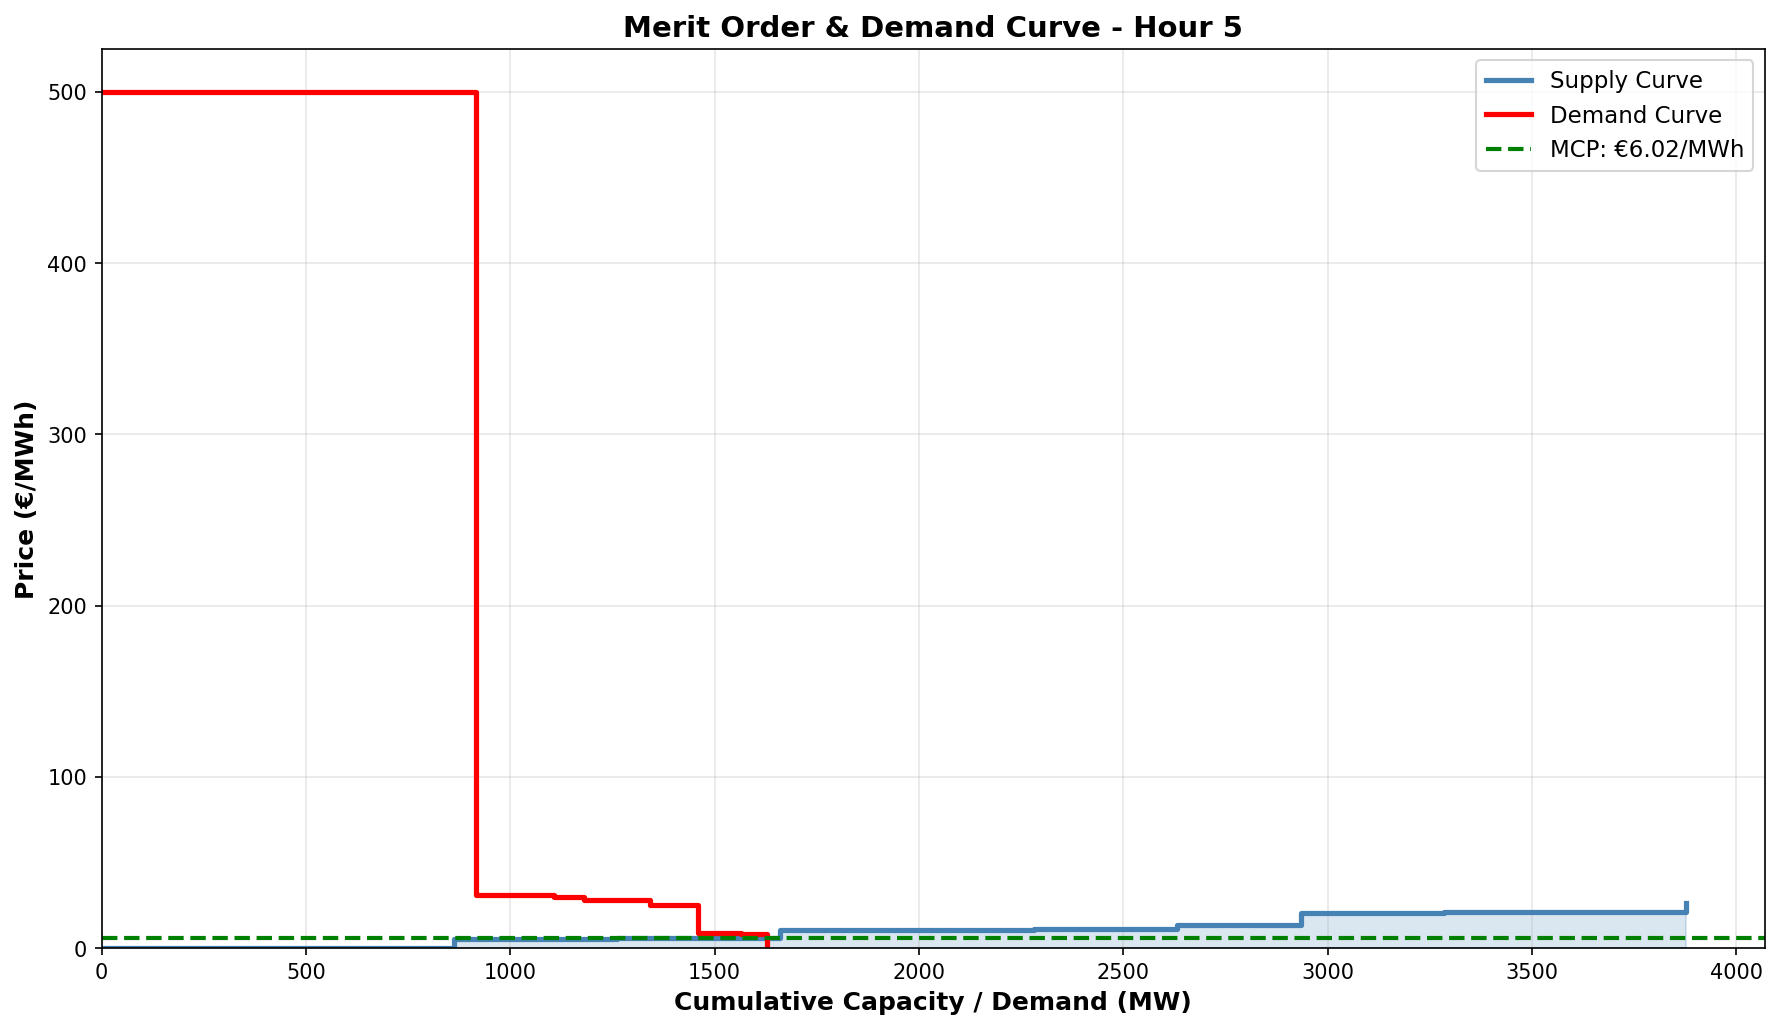
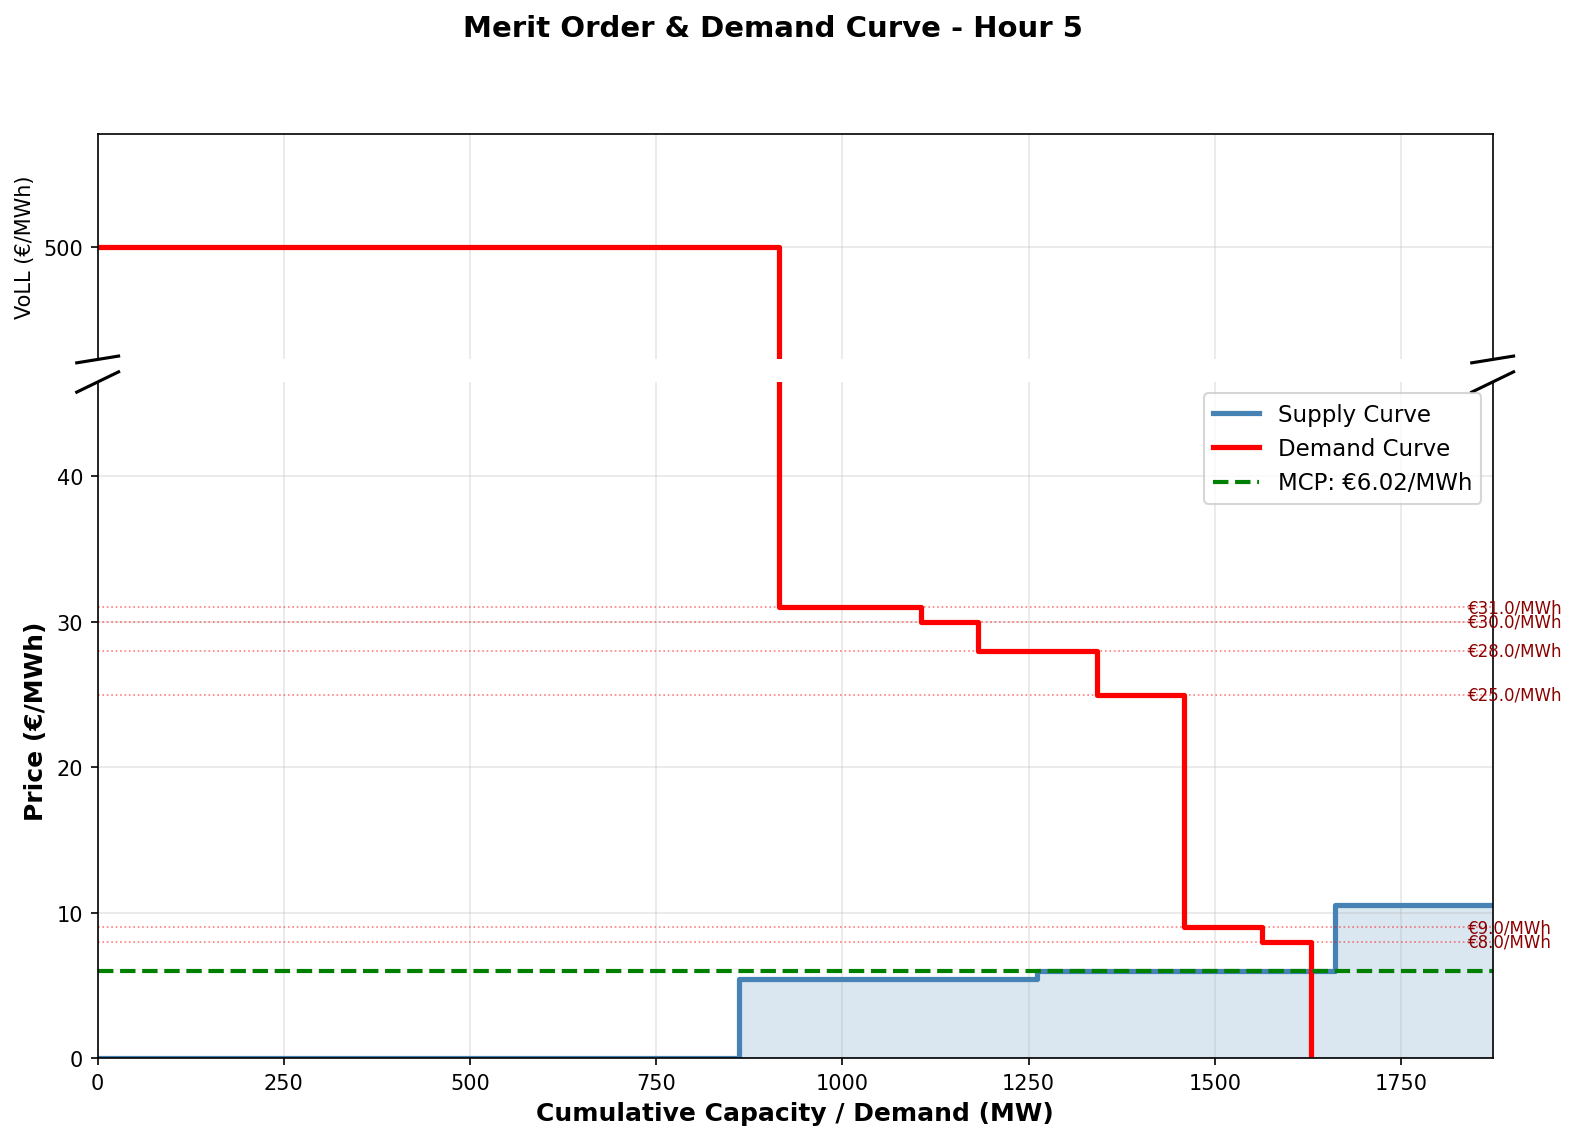
plot for the merit order curve in step 1 changed to improve the visualization. implemented a way to save the plots

diff --git a/Assignment_step1.py b/Assignment_step1.py
@@ -121,7 +121,7 @@ conventional_generators = pd.read_csv('GeneratorsData.csv', header=None, names=[
 
 # Creating the wind capacity matrix for 6 wind generators and 24 hours
 wind_capacity= np.zeros((6, 24)) # placeholder for wind generator data, to be filled with actual data from CSV files for hourly optimization
-file_list = glob.glob(r'Ninja\*.csv')
+file_list = sorted(Path(__file__).parent.glob('Ninja/*.csv'))
 for i,csv in enumerate(file_list):
   data = pd.read_csv(csv, header = None,names = ['time','local_time','capacity_factor'], skiprows = 4)
   index = data.loc[data['time'] == date + ' 00:00'].index[0] # Find the index of the row corresponding to the specified date starting at 00:00
@@ -283,7 +283,8 @@ for t in range(time_step):  # Loop over time steps (hours)
     elastic_curtailment_from_max = (1 - elastic_served / elastic_max_possible) * 100 if elastic_max_possible > 0 else 0
     if t == 4:  # Store detailed results for the hour selected for merit order curve analysis
         model_selected = model
-        generators_selected = total_generators.copy()
+        generators_selected = total_generators.copy() 
+        demand_data_selected = demand_data.copy()
         producer_profits = {}
         utility_by_load = {}
 
@@ -343,7 +344,7 @@ for g in GENERATORS:
 # Demand
 print("\nStationary Demand:")
 for j in LOADS:
-    bid = demand_data['bid_price'][j]
+    bid = demand_data_selected['bid_price'][j]
     nu_min = model_selected.results.optimal_duals[f'demand min limit {j}']
     nu_max = model_selected.results.optimal_duals[f'demand max limit {j}']
     print(f"Load {j+1}: bid={bid:.2f}, λ={lam:.4f}, ν_min={nu_min:.4f}, ν_max={nu_max:.4f}, "
@@ -416,75 +417,110 @@ plt.savefig(plots_dir / '24h_market_results.png', dpi=150, bbox_inches='tight')
 plt.show()
 
 # ============================================================================
-# MERIT ORDER CURVE + DEMAND CURVE (chosen hour)
+# MERIT ORDER CURVE + DEMAND CURVE (chosen hour) - Split Y-axis plot
 # ============================================================================
 
-# Supply curve
+# --- Supply curve data ---
 moc_total_demand = loads['demand'][hour]
 wind_generator['capacity'] = wind_capacity[:, hour]
 moc_generators = pd.concat([conventional_generators, wind_generator], ignore_index=True)
 moc_generators_sorted = moc_generators.copy().sort_values(by=["cost"])
 
+# Build cumulative supply curve (step function)
 supply_cumulative = []
 supply_cost = []
 for i in range(len(moc_generators_sorted)):
     supply_cumulative.append(sum(moc_generators_sorted['capacity'][:i]))
     supply_cost.append(moc_generators_sorted['cost'].iloc[i])
 
-# Demand curve
-# Build list of (quantity, bid_price) for each load at the selected hour
+# --- Demand curve data ---
+# Use accepted quantities from the optimizer (not theoretical max)
 demand_bids = []
 for j, node in enumerate(load_nodes):
     qty_accepted = model_selected.results.variables[f'demand of load {j}']
     if node in elastic_nodes:
         demand_bids.append((qty_accepted, elastic_bid_prices[node]))
     else:
-        demand_bids.append((qty_accepted, 500))
+        demand_bids.append((qty_accepted, 500.0))  # VoLL for inelastic loads
 
 # Sort by bid price descending (highest willingness to pay first)
 demand_bids.sort(key=lambda x: x[1], reverse=True)
 
+# Build cumulative demand curve
 demand_cumulative = [0]
-demand_prices = []
-for qty, bid in demand_bids:
+for qty, _ in demand_bids:
     demand_cumulative.append(demand_cumulative[-1] + qty)
-    demand_prices.append(bid)
 
-# MCP from optimiser
-moc_equilibrium = results_df.loc[results_df['hour'] == hour + 1, 'mcp'].values[0]
-
-# Plot
-fig, ax = plt.subplots(figsize=(12, 7))
-
-# Supply curve
-ax.step(supply_cumulative, supply_cost, where='post', linewidth=2.5, color='steelblue', label='Supply Curve')
-ax.fill_between(supply_cumulative, supply_cost, step='post', alpha=0.2, color='steelblue')
-
-# Demand curve (step descending)
-demand_x = []
-demand_y = []
+# Build step-function coordinates for demand curve
+demand_x, demand_y = [], []
 for i, (qty, bid) in enumerate(demand_bids):
-    demand_x.append(demand_cumulative[i])
-    demand_y.append(bid)
-    demand_x.append(demand_cumulative[i + 1])
-    demand_y.append(bid)
-
-# Final point: drop to zero
+    demand_x += [demand_cumulative[i], demand_cumulative[i + 1]]
+    demand_y += [bid, bid]
 demand_x.append(demand_cumulative[-1])
 demand_y.append(0)
 
-ax.plot(demand_x, demand_y, linewidth=2.5, color='red', label='Demand Curve')
+# MCP from optimizer (dual variable of balance constraint)
+moc_equilibrium = results_df.loc[results_df['hour'] == hour + 1, 'mcp'].values[0]
 
-# MCP line
-ax.axhline(y=moc_equilibrium, color='green', linestyle='--', linewidth=2, label=f'MCP: €{moc_equilibrium:.2f}/MWh')
+# --- Plot: split Y-axis (broken axis) ---
+# Top panel: inelastic demand at VoLL (€500)
+# Bottom panel: elastic bids and MCP zone (0–45 €/MWh)
+fig, (ax_top, ax_bottom) = plt.subplots(
+    2, 1,
+    figsize=(12, 8),
+    gridspec_kw={'height_ratios': [1, 3]},  # top panel smaller
+    sharex=True
+)
+fig.subplots_adjust(hspace=0.05)
 
-ax.set_xlabel('Cumulative Capacity / Demand (MW)', fontsize=12, fontweight='bold')
-ax.set_ylabel('Price (€/MWh)', fontsize=12, fontweight='bold')
-ax.set_title(f'Merit Order & Demand Curve - Hour {hour + 1}', fontsize=14, fontweight='bold')
-ax.legend(fontsize=11, loc='upper right')
-ax.grid(True, alpha=0.3)
-ax.set_xlim(left=0)
-ax.set_ylim(bottom=0)
-plt.tight_layout() 
+# --- Top panel: VoLL zone ---
+for ax in (ax_top, ax_bottom):
+    ax.step(supply_cumulative, supply_cost, where='post',
+            linewidth=2.5, color='steelblue', label='Supply Curve')
+    ax.fill_between(supply_cumulative, supply_cost,
+                    step='post', alpha=0.2, color='steelblue')
+    ax.plot(demand_x, demand_y, linewidth=2.5, color='red', label='Demand Curve')
+    ax.axhline(y=moc_equilibrium, color='green', linestyle='--', linewidth=2,
+               label=f'MCP: €{moc_equilibrium:.2f}/MWh')
+    ax.grid(True, alpha=0.3)
+
+# Top panel shows only the VoLL region
+ax_top.set_ylim(470, 530)
+ax_top.set_yticks([500])
+ax_top.set_ylabel('VoLL (€/MWh)', fontsize=10)
+ax_top.spines['bottom'].set_visible(False)
+ax_top.tick_params(bottom=False)
+
+# Bottom panel shows the economically relevant region
+ax_bottom.set_ylim(0, max(elastic_bid_prices.values()) * 1.5)
+ax_bottom.set_xlim(0, demand_cumulative[-1] * 1.15)
+ax_bottom.set_ylabel('Price (€/MWh)', fontsize=12, fontweight='bold')
+ax_bottom.set_xlabel('Cumulative Capacity / Demand (MW)', fontsize=12, fontweight='bold')
+ax_bottom.spines['top'].set_visible(False)
+ax_bottom.legend(fontsize=11, loc='upper right')
+
+# Add dashed reference lines for each elastic bid price
+for bid_price in sorted(set(elastic_bid_prices.values())):
+    ax_bottom.axhline(y=bid_price, color='red', linestyle=':', linewidth=0.8, alpha=0.5)
+    ax_bottom.annotate(
+        f'€{bid_price}/MWh',
+        xy=(demand_cumulative[-1] * 1.13, bid_price),
+        fontsize=8, color='darkred', va='center'
+    )
+
+# --- Broken axis indicators (diagonal marks at the split) ---
+d = 0.015  # size of diagonal marks
+kwargs = dict(transform=ax_top.transAxes, color='k', clip_on=False, linewidth=1.5)
+ax_top.plot((-d, +d), (-d, +d), **kwargs)        # bottom-left of top panel
+ax_top.plot((1 - d, 1 + d), (-d, +d), **kwargs)  # bottom-right of top panel
+
+kwargs.update(transform=ax_bottom.transAxes)
+ax_bottom.plot((-d, +d), (1 - d, 1 + d), **kwargs)        # top-left of bottom panel
+ax_bottom.plot((1 - d, 1 + d), (1 - d, 1 + d), **kwargs)  # top-right of bottom panel
+
+# --- Title and save ---
+fig.suptitle(f'Merit Order & Demand Curve - Hour {hour + 1}',
+             fontsize=14, fontweight='bold', y=0.98)
+
 plt.savefig(plots_dir / f'merit_order_hour_{hour + 1}.png', dpi=150, bbox_inches='tight')
 plt.show()
